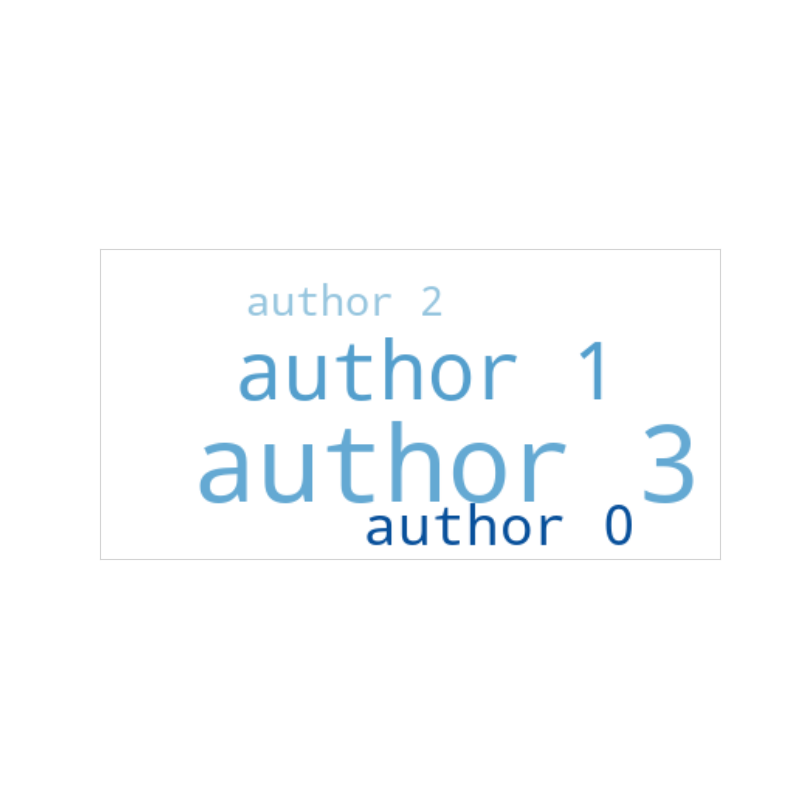
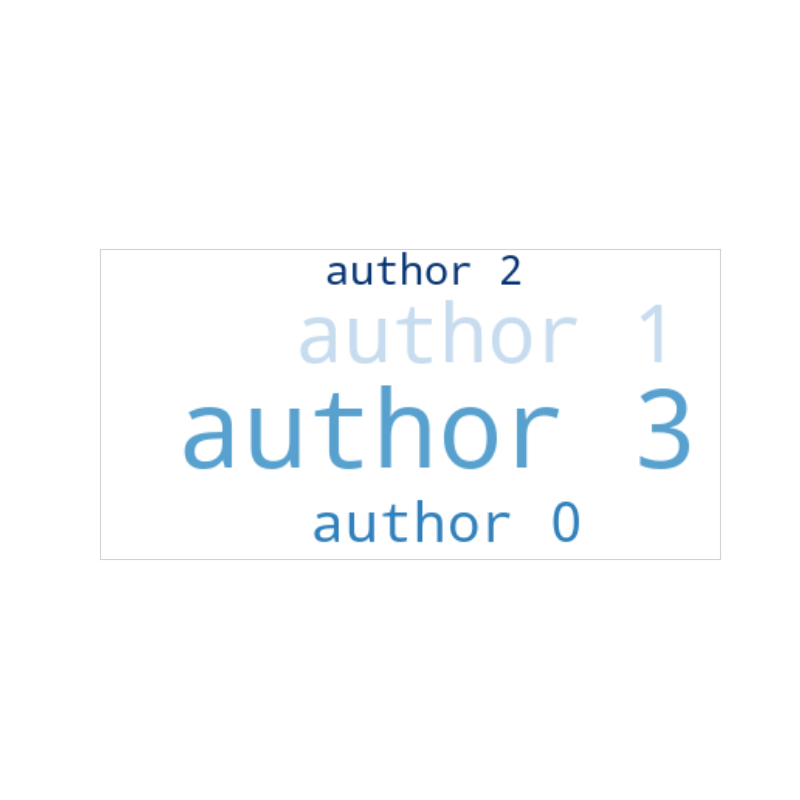
co-occurrence network plot

Changed region(s): [[0.2188, 0.3125, 0.875, 0.6875]]

diff --git a/techminer/co_occurrence.py b/techminer/co_occurrence.py
@@ -681,7 +681,7 @@ def __TAB0__(x):
             if plot_type == "Network" and term != by:
                 display(
                     co_occurrence_map(
-                        matrix, layout=layout, cmap=cmap, figsize=(14, 8.5)
+                        matrix, layout=layout, cmap=cmap, figsize=(14, 11)
                     )
                 )
 
@@ -897,6 +897,183 @@ def occurrence_map(matrix, layout="Kamada Kawai", cmap="Greys", figsize=(17, 12)
     # Figure size
     #
 
+    ax.set_xlim(
+        xlim[0] - 0.15 * (xlim[1] - xlim[0]), xlim[1] + 0.15 * (xlim[1] - xlim[0])
+    )
+    ax.set_ylim(
+        ylim[0] - 0.15 * (ylim[1] - ylim[0]), ylim[1] + 0.15 * (ylim[1] - ylim[0])
+    )
+    ax.set_aspect("equal")
+    return fig
+
+
+def co_occurrence_map(matrix, layout="Kamada Kawai", cmap="Greys", figsize=(17, 12)):
+    """Computes the occurrence map directly using networkx.
+    """
+    #
+    def compute_node_sizes(terms):
+        #
+        node_sizes = [int(w[w.find("[") + 1 : w.find("]")]) for w in terms if "[" in w]
+        if len(terms) == 0:
+            node_sizes = [500] * len(terms)
+        else:
+            max_size = max(node_sizes)
+            min_size = min(node_sizes)
+            if min_size == max_size:
+                node_sizes = [500] * len(terms)
+            else:
+                node_sizes = [
+                    600 + int(2500 * (w - min_size) / (max_size - min_size))
+                    for w in node_sizes
+                ]
+        node_colors = [
+            cmap(0.2 + 0.75 * node_sizes[i] / max(node_sizes))
+            for i in range(len(node_sizes))
+        ]
+        return node_sizes, node_colors
+
+    #
+    #
+    #
+    cmap = pyplot.cm.get_cmap(cmap)
+
+    #
+    # Data preparation
+    #
+    column_node_sizes, column_node_colors = compute_node_sizes(matrix.columns)
+    index_node_sizes, index_node_colors = compute_node_sizes(matrix.index)
+
+    #
+    # Remove [...] from text
+    #
+    terms = matrix.columns.tolist() + matrix.index.tolist()
+    terms = [w[: w.find("[")].strip() if "[" in w else w for w in terms]
+    matrix.columns = [
+        w[: w.find("[")].strip() if "[" in w else w for w in matrix.columns
+    ]
+    matrix.index = [w[: w.find("[")].strip() if "[" in w else w for w in matrix.index]
+
+    #
+    # Draw the network
+    #
+    fig = pyplot.Figure(figsize=figsize)
+    ax = fig.subplots()
+
+    G = nx.Graph(ax=ax)
+    G.clear()
+
+    #
+    # network nodes
+    #
+    G.add_nodes_from(terms)
+
+    #
+    # network edges
+    #
+    n = len(matrix.columns)
+    max_width = 0
+    for col in matrix.columns:
+        for row in matrix.index:
+            link = matrix.at[row, col]
+            if link > 0:
+                G.add_edge(row, col, width=link)
+                if max_width < link:
+                    max_width = link
+
+    draw_dict = {
+        "Circular": nx.draw_circular,
+        "Kamada Kawai": nx.draw_kamada_kawai,
+        "Planar": nx.draw_planar,
+        "Random": nx.draw_random,
+        "Spectral": nx.draw_spectral,
+        "Spring": nx.draw_spring,
+        "Shell": nx.draw_shell,
+    }
+    draw = draw_dict[layout]
+
+    for e in G.edges.data():
+        a, b, width = e
+        edge = [(a, b)]
+        width = 0.2 + 4.0 * width["width"] / max_width
+        draw(
+            G,
+            ax=ax,
+            edgelist=edge,
+            width=width,
+            edge_color="k",
+            with_labels=False,
+            node_size=1,
+        )
+
+    #
+    # Layout
+    #
+    layout_dict = {
+        "Circular": nx.circular_layout,
+        "Kamada Kawai": nx.kamada_kawai_layout,
+        "Planar": nx.planar_layout,
+        "Random": nx.random_layout,
+        "Spectral": nx.spectral_layout,
+        "Spring": nx.spring_layout,
+        "Shell": nx.shell_layout,
+    }
+    pos = layout_dict[layout](G)
+
+    #
+    # Draw column nodes
+    #
+    nx.draw_networkx_nodes(
+        G,
+        pos,
+        ax=ax,
+        edge_color="k",
+        nodelist=matrix.columns,
+        node_size=column_node_sizes,
+        node_color=column_node_colors,
+        node_shape="o",
+    )
+
+    #
+    # Draw index nodes
+    #
+    nx.draw_networkx_nodes(
+        G,
+        pos,
+        ax=ax,
+        edge_color="k",
+        nodelist=matrix.index,
+        node_size=index_node_sizes,
+        node_color=index_node_colors,
+        node_shape="s",
+    )
+
+    #
+    # Labels
+    #
+    xlim = ax.get_xlim()
+    ylim = ax.get_ylim()
+    node_sizes = column_node_sizes + index_node_sizes
+    for idx, term in enumerate(terms):
+        x, y = pos[term]
+        ax.text(
+            x
+            + 0.01 * (xlim[1] - xlim[0])
+            + 0.001 * node_sizes[idx] / 300 * (xlim[1] - xlim[0]),
+            y
+            - 0.01 * (ylim[1] - ylim[0])
+            - 0.001 * node_sizes[idx] / 300 * (ylim[1] - ylim[0]),
+            s=term,
+            fontsize=10,
+            bbox=dict(
+                facecolor="w", alpha=1.0, edgecolor="gray", boxstyle="round,pad=0.5",
+            ),
+            horizontalalignment="left",
+            verticalalignment="top",
+        )
+
+    #
+    # Figure size
+    #
     ax.set_xlim(
         xlim[0] - 0.15 * (xlim[1] - xlim[0]), xlim[1] + 0.15 * (xlim[1] - xlim[0])
     )
